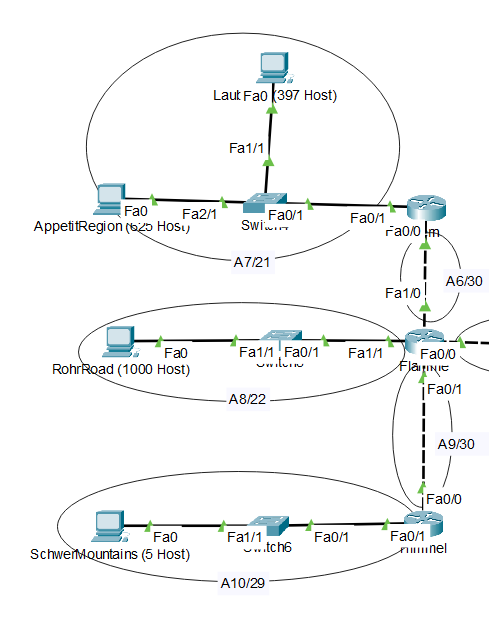
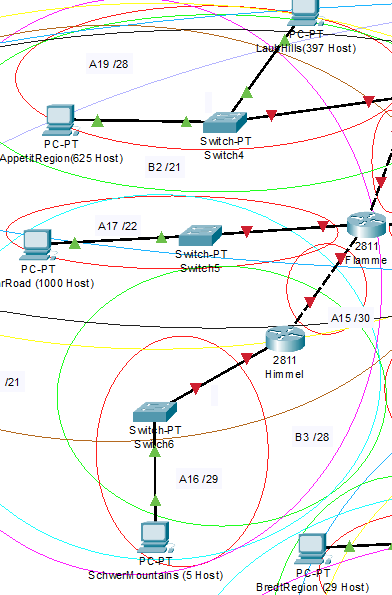
fix: cidr

diff --git a/README.md b/README.md
@@ -538,7 +538,7 @@ route add -net 0.0.0.0 netmask 0.0.0.0 gw 192.194.0.141
 
 Contoh :
 
-Jika ingin melakukan routing pada `Flamme`, maka kita perlu mengkonfigurasi routing untuk A7, A10, dan router-router yang bersebelahan dengan `Flamme`.
+Jika ingin melakukan routing pada `Flamme`, maka kita perlu mengkonfigurasi routing untuk A19, A16, dan router-router yang bersebelahan dengan `Flamme`.
 
 ![Alt text](images/image-12.png)
 
